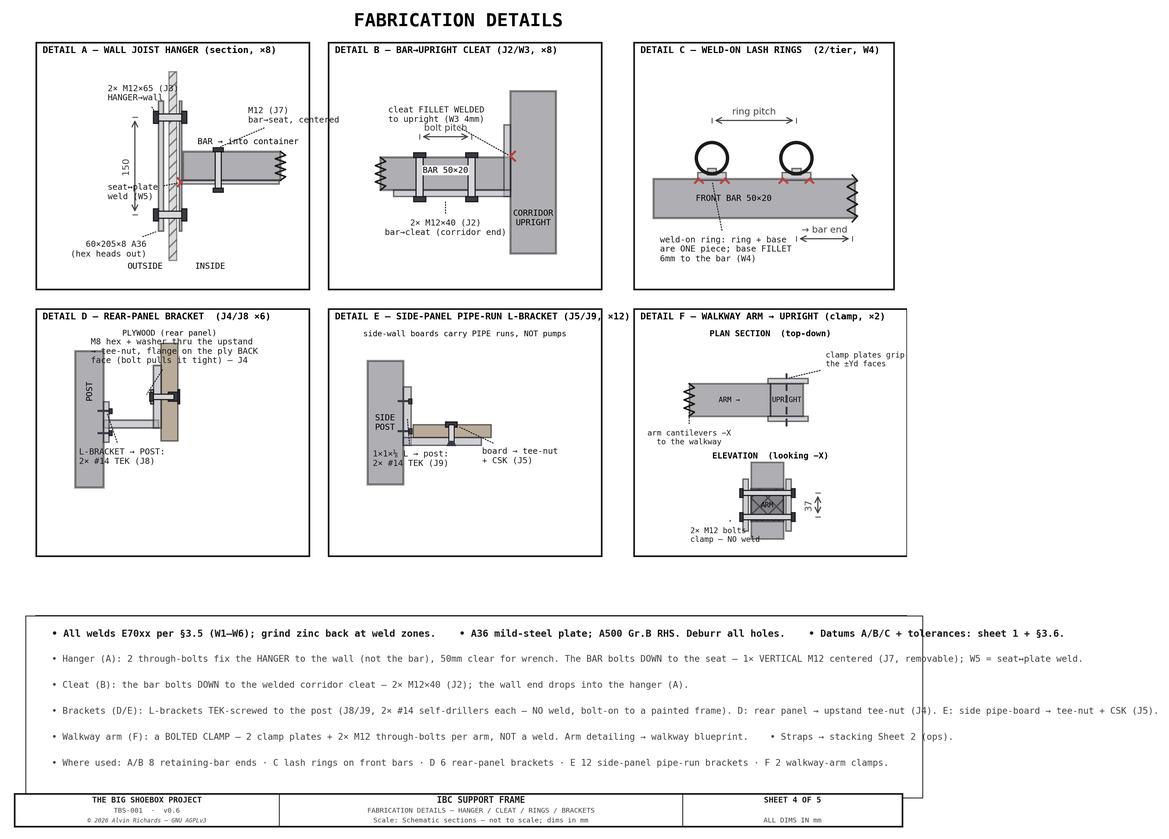
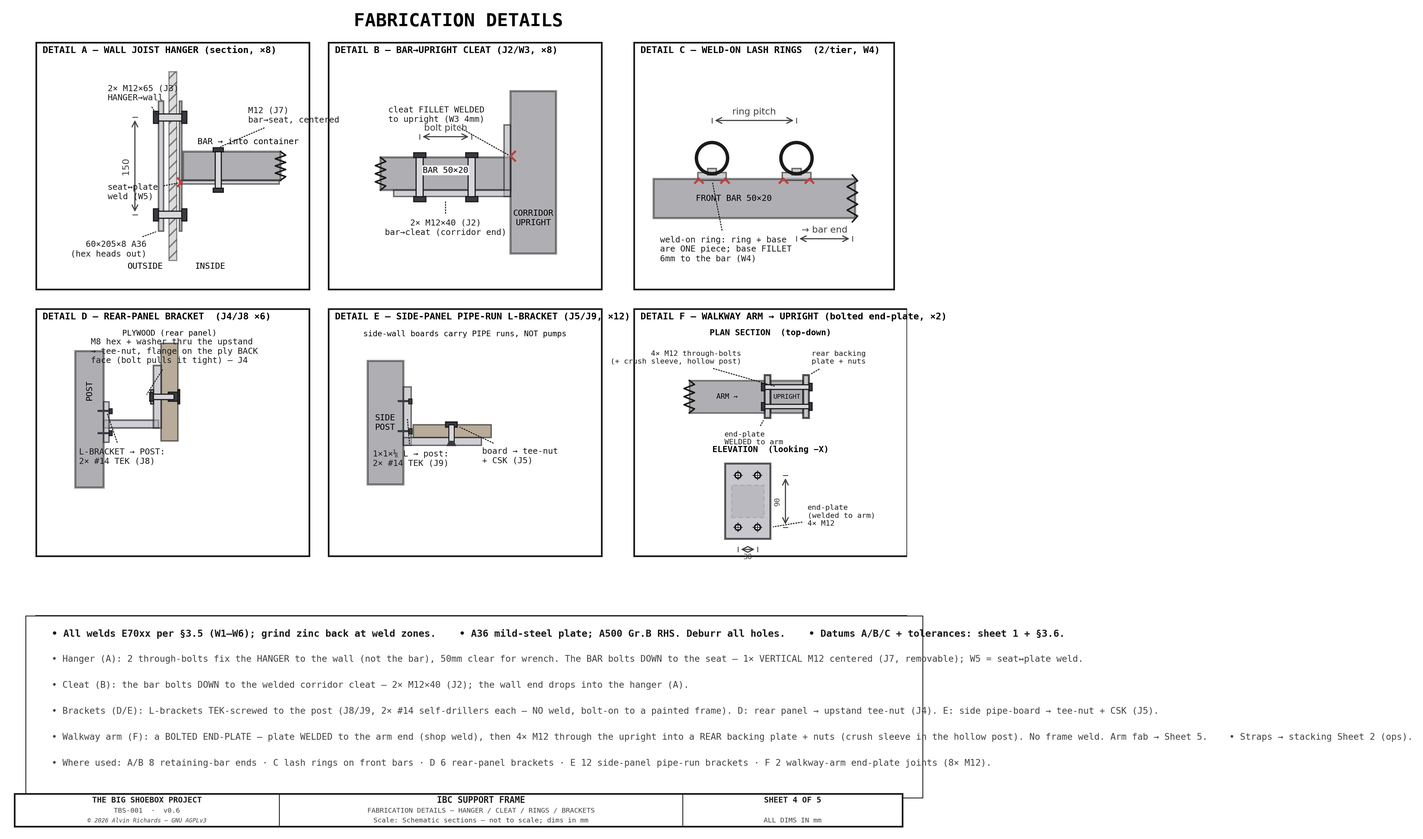
J6 walkway-arm joint: clamp -> bolted end-plate + rear backing plate
The old J6 (2 clamp plates wrapping the upright + 2x M12, moment by friction
over 37mm) had no clear load path - in Sheet 5 VIEW A the bolts gripped
nothing. Replaced with a bolted end-plate moment connection mirroring the
container-wall cantilever detail: end-plate WELDED to the arm end (shop weld),
then 4x M12 through the upright into a REAR backing plate + nuts (internal
crush sleeve per bolt so the hollow RHS can't dish). Moment goes in as a
tension/compression couple across the ~90mm bolt group -> ~2.2kN/bolt, SF>20.

- Sheet 4 Detail F redrawn: plan section (arm -> end-plate -> upright ->
  backing plate) + elevation (2x2 bolt pattern, 90/30 pitch).
- Sheet 5 VIEW A redrawn with the end-plate + backing plate + through-bolts.
- Report §3.4 moment check, §3.5 J6 row (M12x40 clamp x4 -> M12x100 through
  x8), and all clamp->end-plate prose updated.

2D + report only; parts.py/costing + 3D ibc-stack cascade to follow.

diff --git a/src/generators/generate_ibc_frame_drawing.py b/src/generators/generate_ibc_frame_drawing.py
@@ -1191,36 +1191,39 @@ def sheet4():
     leader(ax, qx + 61, qy + 105, qx + 8, qy + 40, "1×1×⅛ L → post:\n2× #14 TEK (J9)", fs=6, font=FONT, ha="left")
     leader(ax, qx + 138, qy + 90, qx + 176, qy + 44, "board → tee-nut\n+ CSK (J5)", fs=6, font=FONT, ha="left")
 
-    # ── DETAIL F — WALKWAY CANTILEVER ARM → FRONT UPRIGHT (2-bolt clamp: PLAN section + ELEVATION) ──
+    # ── DETAIL F — WALKWAY CANTILEVER ARM → FRONT UPRIGHT (bolted end-plate: PLAN section + ELEVATION) ──
     fx0, fy0 = 940, 60
-    _dcell(ax, fx0, fy0, 420, 380, "DETAIL F — WALKWAY ARM → UPRIGHT (clamp, ×2)")
+    _dcell(ax, fx0, fy0, 420, 380, "DETAIL F — WALKWAY ARM → UPRIGHT (bolted end-plate, ×2)")
 
-    # -- upper sub-view: PLAN SECTION (top-down, X→right / Yd↑) — how it reads orbiting the 3D model --
-    ax.text(fx0 + 210, fy0 + 338, "PLAN SECTION  (top-down)", fontsize=6, ha="center", fontweight="bold", **FONT, zorder=8)
-    pcx, pcy = fx0 + 235, fy0 + 240                                             # upright center in plan
+    # -- upper sub-view: PLAN SECTION (top-down, X→right / Yd↑) — end-plate → through-bolts → rear backing plate --
+    ax.text(fx0 + 210, fy0 + 340, "PLAN SECTION  (top-down)", fontsize=6, ha="center", fontweight="bold", **FONT, zorder=8)
+    pcx, pcy, ept = fx0 + 235, fy0 + 245, 9                                     # upright center in plan; drawn plate thickness
     ax.add_patch(Rectangle((pcx - 25, pcy - 25), 50, 50, fc=C_FRAME, ec=C_OUT, lw=1.3, alpha=0.5, zorder=6))  # upright (50 sq)
-    ax.text(pcx, pcy, "UPRIGHT", fontsize=5, ha="center", va="center", **FONT, zorder=9)
-    ax.add_patch(Rectangle((pcx - 150, pcy - 25), 125, 50, fc=C_FRAME, ec=C_OUT, lw=1.2, alpha=0.5, zorder=6))  # arm from −X
+    ax.text(pcx, pcy, "UPRIGHT", fontsize=4.6, ha="center", va="center", **FONT, zorder=9)
+    ax.add_patch(Rectangle((pcx - 150, pcy - 25), 125 - ept, 50, fc=C_FRAME, ec=C_OUT, lw=1.2, alpha=0.5, zorder=6))  # arm from −X
     _break(ax, pcx - 150, pcy - 25, pcy + 25)                                   # arm continues to the walkway
-    ax.text(pcx - 88, pcy, "ARM →", fontsize=5, ha="center", va="center", **FONT, zorder=9)
-    for pfy in (pcy - 33, pcy + 25):                                            # 2 clamp plates on the ±Yd faces
-        ax.add_patch(Rectangle((pcx - 29, pfy), 62, 8, fc=C_STEEL, ec=C_OUT, alpha=0.6, lw=1, zorder=7))
-    ax.plot([pcx, pcx], [pcy - 41, pcy + 41], color=C_BOLT, lw=1.4, ls=(0, (4, 2)), zorder=9)   # bolt axis (both bolts project here)
-    leader(ax, pcx, pcy + 33, pcx + 60, pcy + 62, "clamp plates grip\nthe ±Yd faces", fs=5.5, font=FONT, ha="left")
-    leader(ax, pcx - 150, pcy, pcx - 150, pcy - 58, "arm cantilevers −X\nto the walkway", fs=5.5, font=FONT, ha="center")
+    ax.text(pcx - 92, pcy, "ARM →", fontsize=5, ha="center", va="center", **FONT, zorder=9)
+    ax.add_patch(Rectangle((pcx - 25 - ept, pcy - 33), ept, 66, fc=C_STEEL, ec=C_OUT, alpha=0.75, lw=1.4, zorder=8))  # end-plate WELDED to arm (−X face)
+    ax.add_patch(Rectangle((pcx + 25, pcy - 33), ept, 66, fc=C_STEEL, ec=C_OUT, alpha=0.75, lw=1.4, zorder=8))        # rear backing plate (+X face)
+    for byy in (pcy - 15, pcy + 15):                                            # 2 of the 4 M12 (the Z pair projects onto each)
+        _bolt(ax, pcx - 25 - ept, byy, 50 + 2 * ept, d=7, nut=True)
+    leader(ax, pcx - 25 - ept, pcy - 33, pcx - 96, pcy - 64, "end-plate\nWELDED to arm", fs=5.3, font=FONT, ha="left")
+    leader(ax, pcx + 25 + ept, pcy + 33, pcx + 38, pcy + 60, "rear backing\nplate + nuts", fs=5.3, font=FONT, ha="left")
+    leader(ax, pcx - 15, pcy + 15, pcx - 70, pcy + 60, "4× M12 through-bolts\n(+ crush sleeve, hollow post)", fs=5.3, font=FONT, ha="right")
 
-    # -- lower sub-view: ELEVATION (looking −X) — shows the 2 bolt Z-levels + pitch --
-    ax.text(fx0 + 210, fy0 + 150, "ELEVATION  (looking −X)", fontsize=6, ha="center", fontweight="bold", **FONT, zorder=8)
-    fyc, fzc = fx0 + 205, fy0 + 78
-    ax.add_patch(Rectangle((fyc - 25, fzc - 52), 50, 118, fc=C_FRAME, ec=C_OUT, lw=1.2, alpha=0.5, zorder=5))  # upright face
-    ax.add_patch(Rectangle((fyc - 25, fzc - 25), 50, 50, fc=C_FRAME, ec=C_OUT, lw=1.5, hatch="xx", alpha=0.55, zorder=7))  # arm end-on
-    ax.text(fyc, fzc, "ARM", fontsize=5, ha="center", va="center", **FONT, zorder=9)
-    for fyy in (fyc - 37, fyc + 29):                                            # 2 clamp plates flanking the upright (80 tall)
-        ax.add_patch(Rectangle((fyy, fzc - 40), 8, 80, fc=C_STEEL, ec=C_OUT, alpha=0.6, lw=1, zorder=6))
-    for bz in (fzc - 18, fzc + 19):                                             # 2 M12 through-bolts — ~37mm pitch (matches the model)
-        _bolt(ax, fyc - 37, bz, 74, d=8, nut=True)                              # head + nut bear on the two clamp-plate OUTER faces → actually clamps the assembly
-    draw_dim_v(ax, fyc + 78, fzc - 18, fzc + 19, "37")
-    leader(ax, fyc - 55, fzc - 18, fyc - 118, fzc - 46, "2× M12 bolts\nclamp — NO weld", fs=5.5, font=FONT, ha="left")
+    # -- lower sub-view: ELEVATION (looking −X) — end-plate face + 2×2 bolt pattern + pitch --
+    ax.text(fx0 + 210, fy0 + 160, "ELEVATION  (looking −X)", fontsize=6, ha="center", fontweight="bold", **FONT, zorder=8)
+    fyc, fzc = fx0 + 175, fy0 + 84
+    ax.add_patch(Rectangle((fyc - 25, fzc - 25), 50, 50, fc=C_FRAME, ec=C_OUT, lw=1.0, ls=(0, (3, 2)), alpha=0.3, zorder=5))  # upright behind (dashed)
+    ax.add_patch(Rectangle((fyc - 35, fzc - 58), 70, 116, fc=C_STEEL, ec=C_OUT, lw=1.4, alpha=0.7, zorder=6))  # end-plate face
+    for by in (fyc - 15, fyc + 15):                                             # 2×2 bolt holes
+        for bz2 in (fzc - 40, fzc + 40):
+            ax.add_patch(Circle((by, bz2), 4.5, fc=BG, ec=C_OUT, lw=1.1, zorder=8))
+            ax.plot([by - 7, by + 7], [bz2, bz2], color=C_OUT, lw=0.5, zorder=8)
+            ax.plot([by, by], [bz2 - 7, bz2 + 7], color=C_OUT, lw=0.5, zorder=8)
+    draw_dim_v(ax, fyc + 58, fzc - 40, fzc + 40, "90", fs=5.3, font=FONT)
+    draw_dim_h(ax, fyc - 15, fyc + 15, fzc - 74, "30", fs=5.3, font=FONT, above=False)
+    leader(ax, fyc + 35, fzc - 40, fyc + 92, fzc - 22, "end-plate\n(welded to arm)\n4× M12", fs=5.3, font=FONT, ha="left")
 
     # ── Full-width NOTES band ──
     _dcell(ax, 20, -300, 1340, 268, "NOTES")
@@ -1229,8 +1232,8 @@ def sheet4():
         "• Hanger (A): 2 through-bolts fix the HANGER to the wall (not the bar), 50mm clear for wrench. The BAR bolts DOWN to the seat — 1× VERTICAL M12 centered (J7, removable); W5 = seat↔plate weld.",
         "• Cleat (B): the bar bolts DOWN to the welded corridor cleat — 2× M12×40 (J2); the wall end drops into the hanger (A).",
         "• Brackets (D/E): L-brackets TEK-screwed to the post (J8/J9, 2× #14 self-drillers each — NO weld, bolt-on to a painted frame). D: rear panel → upstand tee-nut (J4). E: side pipe-board → tee-nut + CSK (J5).",
-        "• Walkway arm (F): a BOLTED CLAMP — 2 clamp plates + 2× M12 through-bolts per arm, NOT a weld. Arm detailing → walkway blueprint.    • Straps → stacking Sheet 2 (ops).",
-        "• Where used: A/B 8 retaining-bar ends · C lash rings on front bars · D 6 rear-panel brackets · E 12 side-panel pipe-run brackets · F 2 walkway-arm clamps.",
+        "• Walkway arm (F): a BOLTED END-PLATE — plate WELDED to the arm end (shop weld), then 4× M12 through the upright into a REAR backing plate + nuts (crush sleeve in the hollow post). No frame weld. Arm fab → Sheet 5.    • Straps → stacking Sheet 2 (ops).",
+        "• Where used: A/B 8 retaining-bar ends · C lash rings on front bars · D 6 rear-panel brackets · E 12 side-panel pipe-run brackets · F 2 walkway-arm end-plate joints (8× M12).",
     ], 44, -52, spacing=40, fs=6.4, font=FONT, width=1300)
 
     title_block(ax, "SHEET 4 OF 5",
@@ -1260,17 +1263,22 @@ def sheet5():
     dx = 320                                                   # deck long-beam X (schematic)
     _rhs_rect(ax, ux, az - 150, 70, 300, fc=C_FRAME, alpha=0.5, zo=4)                     # IBC front upright (within the cell)
     ax.text(ux + 35, az + 95, "IBC FRONT\nUPRIGHT", fontsize=6.5, ha="center", va="center", **FONT, zorder=8)
-    _rhs_rect(ax, dx, az - ah/2, ux - dx, ah, fc=C_STEEL, alpha=0.6, zo=5)                # the 2×1×0.120 arm
-    ax.text((dx + ux)/2, az, "2×1×0.120 STEEL ARM", fontsize=7.5, ha="center", va="center", **FONT, zorder=8)
+    ep_x, ep_h = 12, 130                                                                 # arm END-PLATE (drawn thickness / height)
+    _rhs_rect(ax, dx, az - ah/2, ux - ep_x - dx, ah, fc=C_STEEL, alpha=0.6, zo=5)         # the 2×1×0.120 arm (ends at the end-plate)
+    ax.text((dx + ux)/2 - 30, az, "2×1×0.120 STEEL ARM", fontsize=7.5, ha="center", va="center", **FONT, zorder=8)
     lbw = 70                                                                             # half-lap: arm TOP notched over the long-beam width
     ax.add_patch(Rectangle((dx, az + 2), lbw, ah/2 - 2, fc=BG, ec="none", zorder=6))
     ax.add_patch(Rectangle((dx, az + 2), lbw, ah/2 - 2, fc=C_FRAME, ec=C_OUT, alpha=0.5, hatch="xx", lw=1.2, zorder=7))  # long beam in the lap
     ax.plot([dx, dx + lbw], [az + 2, az + 2], color=C_OUT, lw=1.0, zorder=8)             # half-lap line
     _break(ax, dx - 4, az - ah/2, az + ah/2)                                             # long beam continues in Yd (out of page)
     leader(ax, dx + lbw/2, az + ah/2, dx + 20, az + 120, "walkway long beam (2×1) drops\ninto the HALF-LAP — Detail C", fs=6, font=FONT, ha="left")
-    for bz in (az - 30, az + 30):
-        _bolt(ax, ux - 40, bz, 110, d=9, nut=True)                                       # 2× M12 clamp bolts (J6)
-    leader(ax, ux - 40, az + 30, ux - 210, az + 130, "2-plate clamp + 2× M12 (J6)\n— see Detail F, sheet 4", fs=6, font=FONT, ha="right")
+    # J6 — bolted end-plate: plate WELDED to the arm end → 4× M12 through the upright → REAR backing plate + nuts
+    ax.add_patch(Rectangle((ux - ep_x, az - ep_h/2), ep_x, ep_h, fc=C_STEEL, ec=C_OUT, alpha=0.75, lw=1.5, zorder=9))   # end-plate on the −X face (welded to arm)
+    ax.add_patch(Rectangle((ux + 70, az - ep_h/2), ep_x, ep_h, fc=C_STEEL, ec=C_OUT, alpha=0.75, lw=1.5, zorder=9))     # rear backing plate on the +X face
+    for bz in (az - 45, az + 45):                                                        # 2 of the 4 bolts show (the Yd pair projects onto each)
+        _bolt(ax, ux - ep_x, bz, 70 + 2 * ep_x, d=9, nut=True)
+    leader(ax, ux - ep_x, az + 55, ux - 250, az + 168,
+           "bolted end-plate (WELDED to arm) → 4× M12\nthrough the upright → REAR backing plate + nuts\n(J6) — see Detail F, sheet 4", fs=6, font=FONT, ha="left")
     draw_dim_h(ax, dx, ux, az - 95, "reach 325", fs=6.5, font=FONT, above=False)
     draw_dim_v(ax, dx - 24, az - ah/2, az + ah/2, "25", fs=6, font=FONT)
     ax.text((dx + ux) / 2, az - 130, "arm underside Z90 · top Z115 (grate bottom) — 11.6mm over the spray beam",
@@ -1305,19 +1313,19 @@ def sheet5():
     # ── NOTES ──
     _dcell(ax, 950, 40, 390, 360, "NOTES")
     draw_notes(ax, [
-        "• 2× arms — one per IBC FRONT upright",
-        "  (corridor near + far). 2×1×0.120in",
-        "  steel, laid flat.",
-        "• Reach 325mm: upright face → walkway",
-        "  deck left edge; carries the RIGHT",
-        "  walkway's left long beam.",
-        "• HALF-LAP where the arm crosses the",
-        "  long beam: upper 20mm notched so the",
-        "  beam drops in flush — ONE arm, no splice.",
-        "• Upright CONNECTION = the 2-plate +",
-        "  2× M12 clamp (J6) — sheet 4, DETAIL F.",
+        "• 2× arms, one per IBC FRONT upright",
+        "  (near + far). 2×1×0.120in steel, flat.",
+        "• Reach 325mm: upright → walkway deck;",
+        "  carries the RIGHT walkway's left beam.",
+        "• HALF-LAP at the beam crossing: upper",
+        "  20mm notched, beam drops flush — ONE",
+        "  arm, no splice (Detail C).",
+        "• CONNECTION (J6): end-plate WELDED to",
+        "  the arm → 4× M12 through the upright →",
+        "  REAR backing plate + nuts (+ crush",
+        "  sleeves, hollow post). Sheet 4, Det F.",
         "• Arm underside Z90; top Z115 (grate).",
-    ], 966, 356, spacing=28, fs=6.3, font=FONT, width=376)
+    ], 966, 356, spacing=26, fs=6.2, font=FONT, width=376)
 
     title_block(ax, "SHEET 5 OF 5",
                 drawing_title="IBC SUPPORT FRAME",

diff --git a/ibc-stacking-report.md b/ibc-stacking-report.md
@@ -96,7 +96,7 @@ front feet reach ~25mm under the tray edge). Transport restraint is provided by:
 - the totes are otherwise trapped by the container side walls (30mm gap) and sealed end wall.
 
 The box carries the **Corridor Plumbing Panel** (pumps) and its **drain-riser backing spine**
-on the back uprights, and gives the right-walkway cantilever arms their clamp point on the
+on the back uprights, and gives the right-walkway cantilever arms their bolt-on point on the
 front uprights — so it is the **shared metal structure of the IBC plumbing corridor**, not just a
 tote-restraint frame. The panel brackets, the 12 side-panel pipe-run L-brackets, the ribbon cross-beams,
 and the walkway-arm connection are validated and scheduled in §3.4–3.6 alongside the tote restraint.
@@ -119,7 +119,7 @@ and the walkway-arm connection are validated and scheduled in §3.4–3.6 alongs
 | Weld-on lashing rings | 8 on the front bars (4 per tier); 3,333 lb (~1,512 kg) assembly WLL (2" strap-limited), 2 straps per stack |
 | Panel mount | the box carries the Corridor (pump) Plumbing Panel + drain-riser spine on the back uprights, and the right-walkway cantilever arms on the front uprights |
 | Frame weight | ~123 kg (4 uprights + rings + 4 feet + 8 front bars + 8 hangers + 8 exterior plates + rear-panel brackets + 4 mats — see [weight report](weight-distribution-report.md)) |
-| Joints | Welded (fillet weld throughout — sizes scheduled in §3.5); the walkway-arm connection is a bolted clamp (J6), not a weld |
+| Joints | Welded (fillet weld throughout — sizes scheduled in §3.5); the walkway-arm connection is a bolted end-plate (J6), not a frame weld |
 
 ![TBS-001 IBC Frame — Sheet 2: Side Elevation](assets/ibc-frame-sheet2.png)
 
@@ -162,7 +162,7 @@ The two bars give **defense in depth**: as positive blocking they pass on their 
 **Service + walkway load cases** (the same frame also carries the plumbing panel and the walkway — both **non-governing** vs the transport case):
 
 - **Plumbing panel + pumps** (~20 kg on the 6 rear-panel brackets) = ~33 N/bracket, static — trivial (SF ≫ 10).
-- **Right-walkway cantilever** — each of the 2 arms carries ~22 kg dead + a 1 kN person point load at the deck (325 mm out from the upright) = a **395 N·m moment into the front upright**: the 50.8 RHS upright bends at **SF 6.9**, and the arm→upright connection — a **bolted clamp** (2 clamp plates wrapping the upright + 2× M12 through-bolts, J6) carrying the moment as a couple over the ~37 mm bolt spacing — at **SF 3.8**. The arm's own fabrication is drawn on Sheet 5; its connection into this frame (the clamp) is checked here.
+- **Right-walkway cantilever** — each of the 2 arms carries ~22 kg dead + a 1 kN person point load at the deck (325 mm out from the upright) = a **395 N·m moment into the front upright**: the 50.8 RHS upright bends at **SF 6.9**, and the arm→upright connection — a **bolted end-plate** (a plate welded to the arm end, then 4× M12 through the upright into a **rear backing plate**, J6) carries the moment as a tension/compression couple across the bolt group: at the ~90 mm couple the top bolts see ~2.2 kN each (**SF > 20** on the M12s), and the rear backing plate spreads the reaction so the hollow RHS wall can't dish. The arm's own fabrication is drawn on Sheet 5; its connection into this frame is checked here.
 
 The load path, the EN 12195-1 method, and the full demand/capacity/SF matrix (driven from `ibc_frame_load.py`) are drawn on the load-case sheet:
 
@@ -183,7 +183,7 @@ are the standard values for the grade.
 | J3 | Wall hanger → side wall → exterior backing plate | M12×65 through-bolt (91280A728) | Gr.8.8 zinc | 16 | **~90 N·m** (85–95 band) | flat (head, outside) + flat + split-lock (nut, inside) | plain nut + split-lock washer |
 | J4 | Rear panel → L-bracket upstand (off the back upright) | M8 hex into captive 5/16 tee-nut set from the ply BACK face (tension pulls the flange against the wood) | zinc | 6 brackets | snug + locker (light static load) | flat washer under head | thread-locker |
 | J5 | Side-panel pipe-run boards → L-brackets | ¼-20 CSK machine screw into captive pronged tee-nut (rear-panel method, #30) | zinc | 12 brackets | snug | — | pronged tee-nut (self-locking in ply) |
-| J6 | Walkway cantilever arm → front upright (2 clamp plates wrap the upright) | M12×40 hex through-bolt | Gr.8.8 zinc | 2 arms × 2 bolts = 4 | **~90 N·m** (85–95 band) | flat both ends | nyloc nut |
+| J6 | Walkway cantilever arm → front upright (arm end-plate → **rear backing plate**, bolted through the upright; internal crush sleeve per bolt) | M12×100 hex through-bolt | Gr.8.8 zinc | 2 arms × 4 bolts = 8 | **~90 N·m** (85–95 band) | flat both ends | nyloc nut |
 | J7 | Front-bar wall end → hanger pocket seat (vertical retention — the bar is bolted, not welded, to the hanger; **1 centered** bolt, reverted from 2 — the pocket + the fixed 2-bolt corridor cleat already stop the bar rotating, so the 2nd was redundant and crowded the seat) | M12×40 hex (92314A744) | A2-70 (18-8 SS) | 1 per bar × 8 = 8 | **~50 N·m** with anti-seize | flat | nyloc nut |
 | J8 | Rear-panel L-bracket → back upright (post leg) | #14 self-drilling TEK screw, #4/5 point, HWH | 410 SS | 2 per bracket × 6 = 12 | driven to seat — no torque spec (self-drilling; light static panel load) | bonded washer | thread-forming, self-locking |
 | J9 | Side-panel pipe-run L-bracket → side post (weld leg) | #14 self-drilling TEK screw, #4/5 point, HWH | 410 SS | 2 per bracket × 12 = 24 | driven to seat — no torque spec (self-drilling; light pipe load) | bonded washer | thread-forming, self-locking |
@@ -205,13 +205,13 @@ Torque sources: M12 8.8 zinc/dry ≈ 88 N·m ([Fastenal torque-tension, K = 0.20
 
 The rear-panel bracket (**J8**) and the side-panel pipe-run L-bracket (**J9**) are **no longer welded** — they attach to the post with **#14 self-drilling TEK screws** (2 per bracket) so they can be added to a pre-finished, painted frame with no hot work and stay adjustable; both carry only light static loads (panel ~33 N/bracket; pipe runs lighter).
 
-The wall joist hangers are **folded** 4 mm plate (bent, not welded); the exterior backing plates are loose (bolted, not welded). The corridor-panel + side-panel pipe-run brackets and the ribbon cross-beams are the **plumbing-corridor metal** that shares this frame; the walkway cantilever arms **clamp** to the front uprights (J6, a bolted 2-plate clamp — not a weld) and are fabricated per Sheet 5.
+The wall joist hangers are **folded** 4 mm plate (bent, not welded); the exterior backing plates are loose (bolted, not welded). The corridor-panel + side-panel pipe-run brackets and the ribbon cross-beams are the **plumbing-corridor metal** that shares this frame; the walkway cantilever arms **bolt** to the front uprights (J6, an end-plate welded to the arm + a rear backing plate, 4× M12 through-bolts — not a frame weld) and are fabricated per Sheet 5.
 
 These joints are drawn on **Sheet 4** (each with its weld + fastener callout):
 
 ![TBS-001 IBC Frame — Sheet 4: Fabrication Details](assets/ibc-frame-sheet4.png)
 
-The walkway cantilever arms — how each arm is cut, the half-lap where it crosses the walkway deck long-beam, and the section — are drawn on **Sheet 5** (the clamp connection into the upright is the same J6 shown on Sheet 4, Detail F):
+The walkway cantilever arms — how each arm is cut, the half-lap where it crosses the walkway deck long-beam, and the section — are drawn on **Sheet 5** (the connection into the upright is the same J6 end-plate shown on Sheet 4, Detail F):
 
 ![TBS-001 IBC Frame — Sheet 5: Walkway Cantilever Arm Fabrication](assets/ibc-frame-sheet5.png)
 
@@ -224,7 +224,7 @@ tolerances that actually matter for fit-up.
 **Datums:**
 
 - **A (primary)** — the common plane of the four floor-foot undersides. The frame is set and shimmed to A; everything references off it (it sits on the container floor).
-- **B (secondary)** — the front-upright front faces (X = 4,654 mm, the corridor mouth). References the retaining-bar / hanger X positions and the walkway-arm clamp point.
+- **B (secondary)** — the front-upright front faces (X = 4,654 mm, the corridor mouth). References the retaining-bar / hanger X positions and the walkway-arm end-plate point.
 - **C (tertiary)** — the corridor centerline (Yd = 1,181 mm, midway between the two tote columns). Symmetry reference for the columns and the 270 mm plumbing corridor.
 
 **Functional tolerances:**
@@ -412,10 +412,10 @@ relevant sections above; the full set is collected here and in [Engineering Diag
 **Sheet 3 — Plan view: deep 4-leg box (4 legs + ring perimeter) + retaining bars + 4 floor feet + IBC footprints + corridor + walkway arms**
 ![TBS-001 IBC Frame — Sheet 3](assets/ibc-frame-sheet3.png)
 
-**Sheet 4 — Fabrication details: DETAIL A wall joist hanger (per-bar, 2-bolt, 50mm clearance), B bar→upright cleat, C weld-on lashing ring, D rear-panel bracket, E side-panel pipe-run L-bracket, F walkway arm→front-upright clamp (2 plates + 2× M12 through-bolts, J6) — each with weld (W) + fastener (J) callouts**
+**Sheet 4 — Fabrication details: DETAIL A wall joist hanger (per-bar, 2-bolt, 50mm clearance), B bar→upright cleat, C weld-on lashing ring, D rear-panel bracket, E side-panel pipe-run L-bracket, F walkway arm→front-upright bolted end-plate (arm end-plate + rear backing plate, 4× M12 through-bolts, J6) — each with weld (W) + fastener (J) callouts**
 ![TBS-001 IBC Frame — Sheet 4](assets/ibc-frame-sheet4.png)
 
-**Sheet 5 — Walkway cantilever arm fabrication (×2, off the IBC front uprights): VIEW A side elevation (arm reaching 325 mm from the upright clamp to the walkway deck, 2× M12 clamp J6), VIEW B arm section (2×1×0.120 RHS laid flat), DETAIL C half-lap where the arm crosses the deck long-beam (upper 20 mm notched, beam drops in flush — one continuous arm)**
+**Sheet 5 — Walkway cantilever arm fabrication (×2, off the IBC front uprights): VIEW A side elevation (arm reaching 325 mm from the upright to the walkway deck; J6 bolted end-plate — plate welded to the arm, 4× M12 through the upright into a rear backing plate), VIEW B arm section (2×1×0.120 RHS laid flat), DETAIL C half-lap where the arm crosses the deck long-beam (upper 20 mm notched, beam drops in flush — one continuous arm)**
 ![TBS-001 IBC Frame — Sheet 5](assets/ibc-frame-sheet5.png)
 
 **Plate Schedule Sheet 1 — Structural plates drawn 1:1 for the shop: PLATE 1 IBC floor foot (150×150×12, 4× Ø14 @ 100 sq PCD), PLATE 2 wall-hanger exterior backing (60×205×8, 2× Ø14 @ 169), PLATE 3 wall-hanger pocket (folded 4 mm back-plate + 70 seat, J3 + J7 holes) — each with outline dims, hole Ø + center positions, thickness, material, and qty**

diff --git a/RELEASE.md b/RELEASE.md
@@ -27,12 +27,21 @@ file** — a release must not ship without a changelog entry:
 - **NEW — IBC frame Sheet 5: walkway cantilever-arm fabrication (`ibc-frame-sheet5.png`).** The 2 walkway
   cantilever arms that hang off the IBC front uprights are now drawn as a fabrication sheet in the IBC-frame set
   (keeping all the IBC-frame metal together rather than deferring to a separate walkway blueprint): VIEW A side
-  elevation (2×1×0.120 steel arm reaching 325 mm from the upright clamp to the walkway deck, 2× M12 clamp J6 —
-  ref Sheet 4 Detail F), VIEW B arm section (RHS laid flat), DETAIL C the half-lap where the arm crosses the
-  deck long-beam (upper 20 mm notched so the beam drops in flush — one continuous arm, no splice). Sheet count
-  bumped to OF 5; registered in the gallery / publish.sh / setup_docs / dependencies.yml and embedded in report
-  §3.5 + §8. The two "detailed in the walkway blueprint" notes re-scoped to point at Sheet 5. (2D only; the 3D
-  ibc-stack arm + full model cascade to follow.)
+  elevation (2×1×0.120 steel arm reaching 325 mm from the upright to the walkway deck), VIEW B arm section
+  (RHS laid flat), DETAIL C the half-lap where the arm crosses the deck long-beam (upper 20 mm notched so the
+  beam drops in flush — one continuous arm, no splice). Sheet count bumped to OF 5; registered in the gallery /
+  publish.sh / setup_docs / dependencies.yml and embedded in report §3.5 + §8. The two "detailed in the walkway
+  blueprint" notes re-scoped to point at Sheet 5. (2D only; the 3D ibc-stack arm + full model cascade to follow.)
+
+- **J6 walkway-arm joint redesigned: clamp → bolted end-plate (Sheet 4 Detail F + Sheet 5 + report).** The old
+  J6 (2 clamp plates wrapping the upright + 2× M12, carrying the moment by friction over a 37 mm spacing) read
+  as an unclear load path — the bolts gripped nothing. Replaced with a proper **bolted end-plate moment
+  connection**, mirroring the container-wall cantilever detail: an **end-plate welded to the arm end** (shop
+  weld, off the frame), then **4× M12 through the upright into a rear backing plate + nuts** (internal crush
+  sleeve per bolt so the hollow RHS can't dish). Moment goes in as a tension/compression couple across the
+  ~90 mm bolt group → ~2.2 kN/bolt, **SF > 20** (was 3.8). Detail F redrawn (plan section + elevation with the
+  2×2 bolt pattern), VIEW A on Sheet 5 redrawn, and report §3.4 / §3.5-J6 (M12×40 clamp ×4 → M12×100 through
+  ×8) / joint prose updated. (2D + report; parts.py/costing + 3D cascade to follow.)
 
 - **NEW — IBC frame load-case sheet (`ibc-frame-load-case.png`).** `ibc_frame_load.py` gained a `--png` render:
   a one-page load-case drawing — the transport load-path elevation with the EN 12195-1 arrows (0.8 g fwd /
